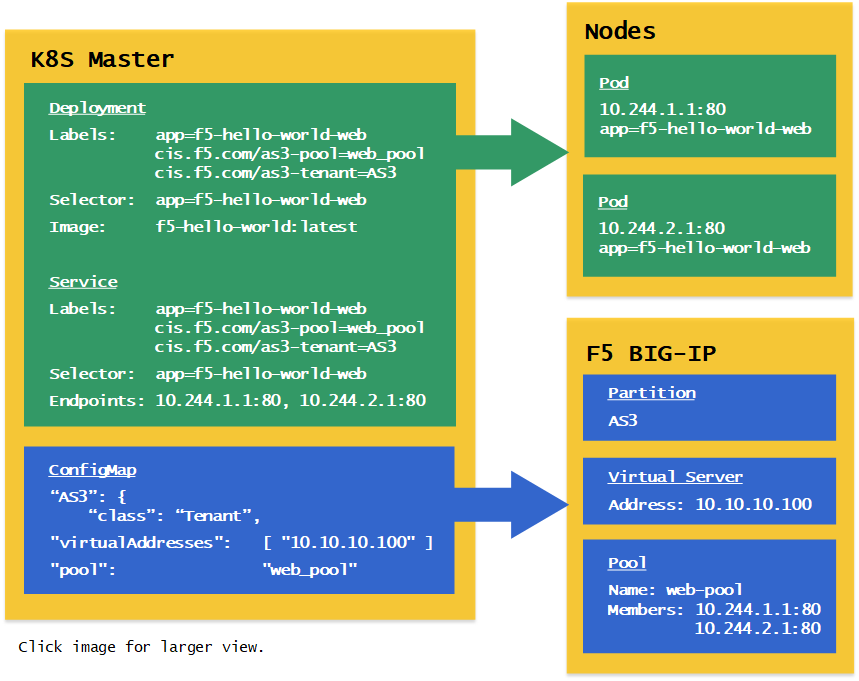
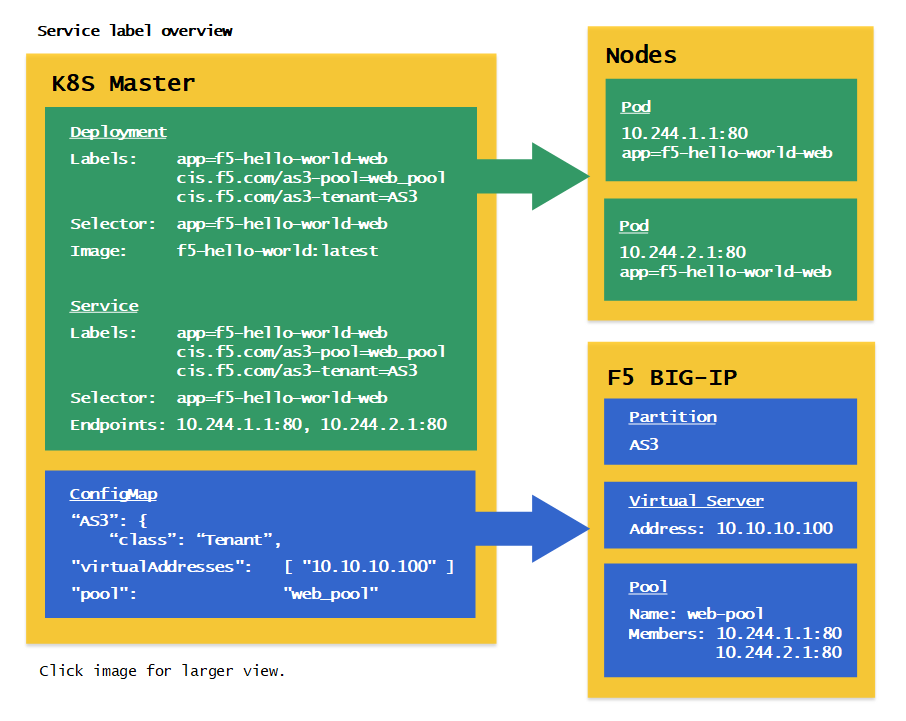
remove heading

diff --git a/docs/kubernetes/kctlr-k8s-as3.rst b/docs/kubernetes/kctlr-k8s-as3.rst
@@ -66,8 +66,6 @@ CIS can dynamically discover, and update the BIG-IP system's load balancing pool
 
    Multiple Kubernetes Service resources tagged with same set of labels will cause a CIS error, and service discovery failure.
 
-.. rubric:: **Service label overview**
-
 .. image:: /_static/media/k8s_service_labels.png
    :scale: 70%
 
